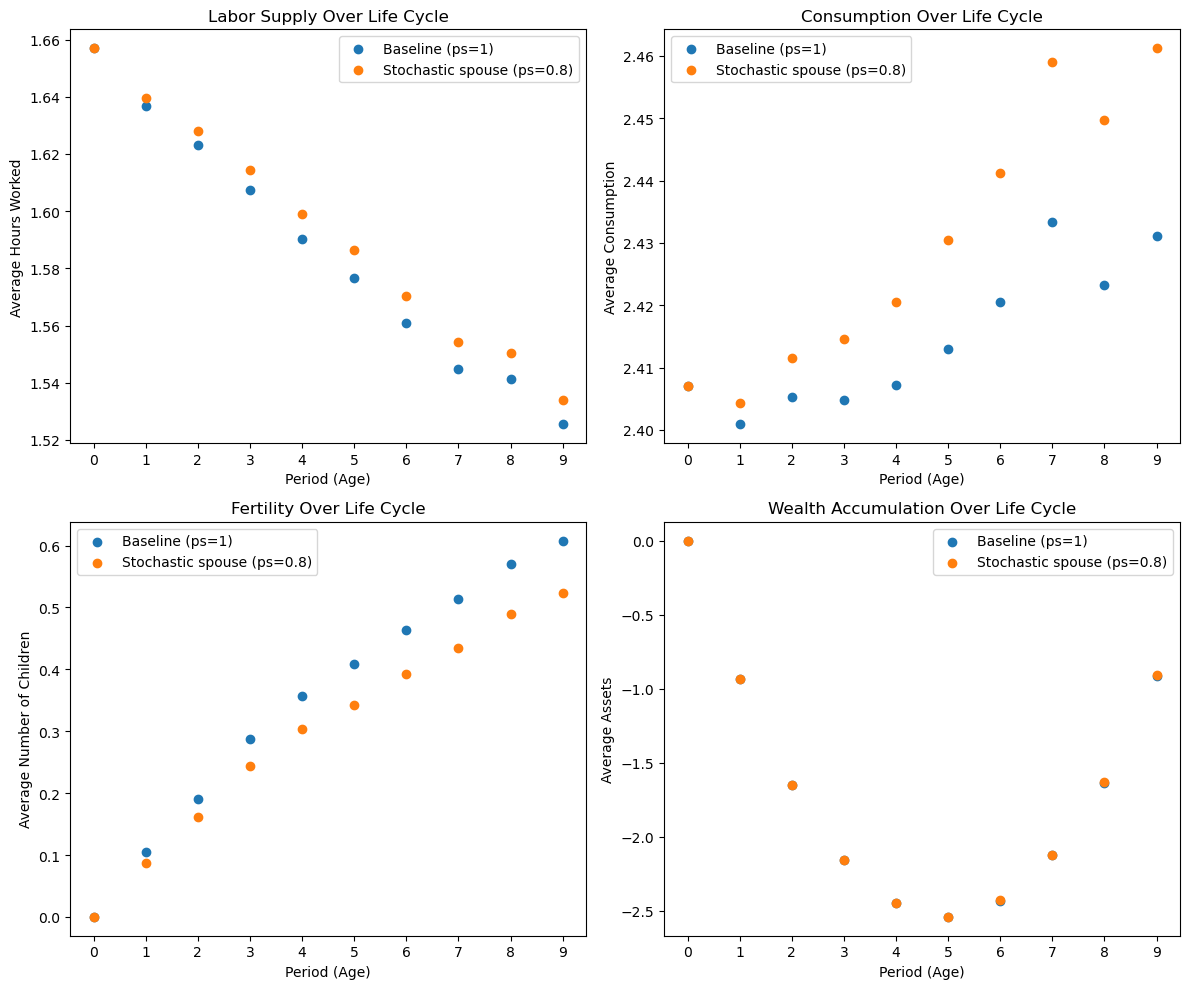
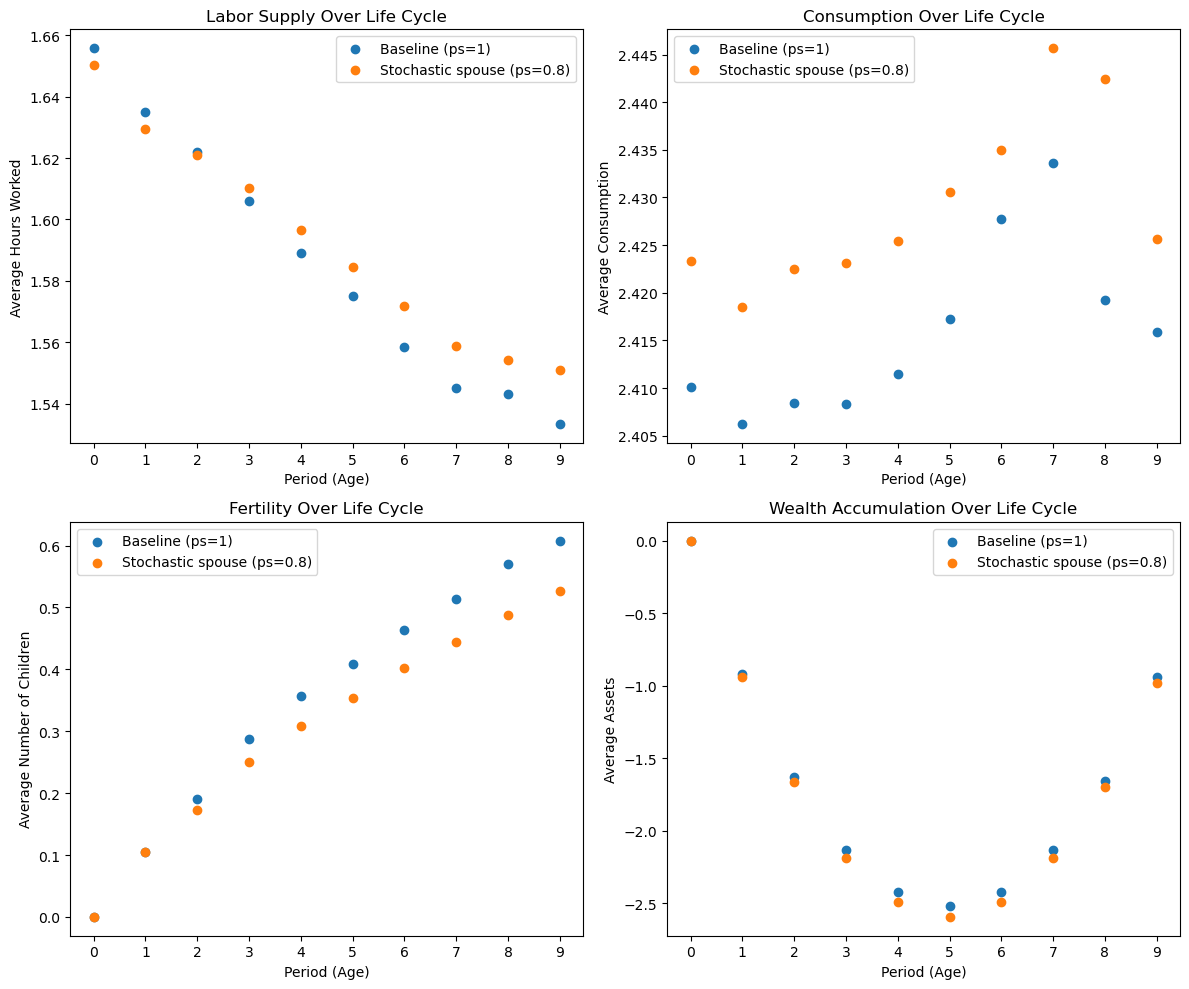
q5 results

diff --git a/Afsnit/Opgave 5.tex b/Afsnit/Opgave 5.tex
@@ -91,7 +91,7 @@ Second, when the spouse is present, additional household income raises average c
 
 Third, fertility declines because births are only possible when a spouse is present. Since spouse presence is stochastic, the number of periods in which childbirth can occur is reduced.
 
-Overall, the model introduces uncertainty in household income and fertility opportunities, leading to slightly higher labour supply, somewhat higher consumption when spouse income is realized, and lower average fertility.
+Overall, the model introduces uncertainty in household income and fertility opportunities, leading to slightly higher labour supply, somewhat higher consumption when spouse income is realized, and lower average fertility. The simulation confirms this: average hours rise from 1.5863 to 1.5928, average consumption increases from 2.4158 to 2.4292, average fertility falls from 0.3503 to 0.3050, and final wealth declines slightly from $-0.9423$ to $-0.9783$, reflecting the income uncertainty from periods without spouse income.
 \begin{figure}[H]
 \centering
 \includegraphics[width=0.5\textwidth]{Billeder/Opgave 5.png}